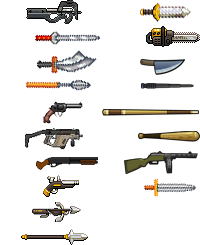
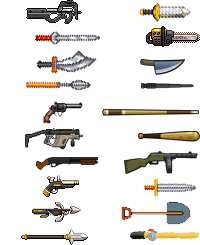
More tools

Changed region(s): [[0.6, 0.8, 0.96, 0.9143], [0.63, 0.9143, 1.0, 1.0]]

diff --git a/gamepalclient/src/draw.js b/gamepalclient/src/draw.js
@@ -822,6 +822,9 @@ export const drawMethods = {
     } else if (Number(codeFragments[0]) == constants.EVENT_CODE_MELEE_CLEAVE) {
       img = images.effectsImage['meleeCleaveEffect']
       imageX = Math.floor((Number(codeFragments[1])) * 10 / 25) % 10 * canvasInfo.imageBlockSize
+    } else if (Number(codeFragments[0]) == constants.EVENT_CODE_MELEE_CHOP) {
+      img = images.effectsImage['meleeCleaveEffect']
+      imageX = Math.floor((Number(codeFragments[1])) * 10 / 25) % 10 * canvasInfo.imageBlockSize
     } else if (Number(codeFragments[0]) == constants.EVENT_CODE_MELEE_STAB
     || Number(codeFragments[0]) == constants.EVENT_CODE_SHOOT_ARROW) {
       img = images.effectsImage['meleeStabEffect']
@@ -1519,7 +1522,8 @@ export const drawMethods = {
       ratio = 1 - userInfo.playerInfo.precision / userInfo.playerInfo.precisionMax
       x = (userInfo.playerInfo.coordinate.x + 2 * Math.cos(userInfo.playerInfo.faceDirection / 180 * Math.PI)) * canvasInfo.blockSize + canvasInfo.deltaWidth
       y = (userInfo.playerInfo.coordinate.y - 2 * Math.sin(userInfo.playerInfo.faceDirection / 180 * Math.PI)) * canvasInfo.blockSize + canvasInfo.deltaHeight - 0.5 * canvasInfo.blockSize
-    } else if (userInfo.playerInfo.skills[0].skillCode == constants.SKILL_CODE_BUILD) {
+    } else if (userInfo.playerInfo.skills[0].skillCode == constants.SKILL_CODE_BUILD
+        || userInfo.playerInfo.skills[0].skillCode == constants.SKILL_CODE_FISH) {
       ratio = 2
       x = (Math.floor(userInfo.playerInfo.coordinate.x + 0.5 + 1 * Math.cos(userInfo.playerInfo.faceDirection / 180 * Math.PI))) * canvasInfo.blockSize + canvasInfo.deltaWidth
       y = (Math.floor(userInfo.playerInfo.coordinate.y + 0.5 - 1 * Math.sin(userInfo.playerInfo.faceDirection / 180 * Math.PI)) - 0.5) * canvasInfo.blockSize + canvasInfo.deltaHeight
@@ -1971,6 +1975,9 @@ export const drawMethods = {
         break
       case constants.SKILL_CODE_BUILD:
         rst += 'Build'
+        break
+      case constants.SKILL_CODE_FISH:
+        rst += 'Fish'
         break
     }
     if (!this.isBlankString(skills.ammoCode)) {

diff --git a/gamepalclient/src/constants.js b/gamepalclient/src/constants.js
@@ -179,6 +179,7 @@ export const constants = {
   EVENT_CODE_MELEE_HIT: 101,
   EVENT_CODE_MELEE_SCRATCH: 117,
   EVENT_CODE_MELEE_CLEAVE: 118,
+  EVENT_CODE_MELEE_CHOP: 130,
   EVENT_CODE_MELEE_STAB: 119,
   EVENT_CODE_MELEE_KICK: 120,
   EVENT_CODE_SHOOT_HIT: 122,
@@ -192,7 +193,7 @@ export const constants = {
   EVENT_CODE_NOISE: 126,
   EVENT_CODE_MINE: 127,
   EVENT_CODE_FIRE: 106,
-  EVENT_CODE_WATER: 130,
+  EVENT_CODE_WATER: 131,
 
   BUFF_CODE_DEAD: 1,
   BUFF_CODE_STUNNED: 2,
@@ -223,6 +224,7 @@ export const constants = {
   SKILL_CODE_MELEE_KICK: 12,
   SKILL_CODE_MELEE_SCRATCH: 13,
   SKILL_CODE_MELEE_CLEAVE: 14,
+  SKILL_CODE_MELEE_CHOP: 33,
   SKILL_CODE_MELEE_STAB: 15,
   SKILL_CODE_SHOOT_HIT: 21,
   SKILL_CODE_SHOOT_ARROW: 22,
@@ -234,6 +236,10 @@ export const constants = {
   SKILL_CODE_SHOOT_WATER: 28,
   SKILL_CODE_LAY: 31,
   SKILL_CODE_BUILD: 32,
+  SKILL_CODE_FISH: 34,
+  SKILL_CODE_SHOVEL: 35,
+  SKILL_CODE_PICK: 36,
+  SKILL_CODE_PLOW: 37,
 
   SKILL_MODE_SEMI_AUTO: 0,
   SKILL_MODE_AUTO: 1,
